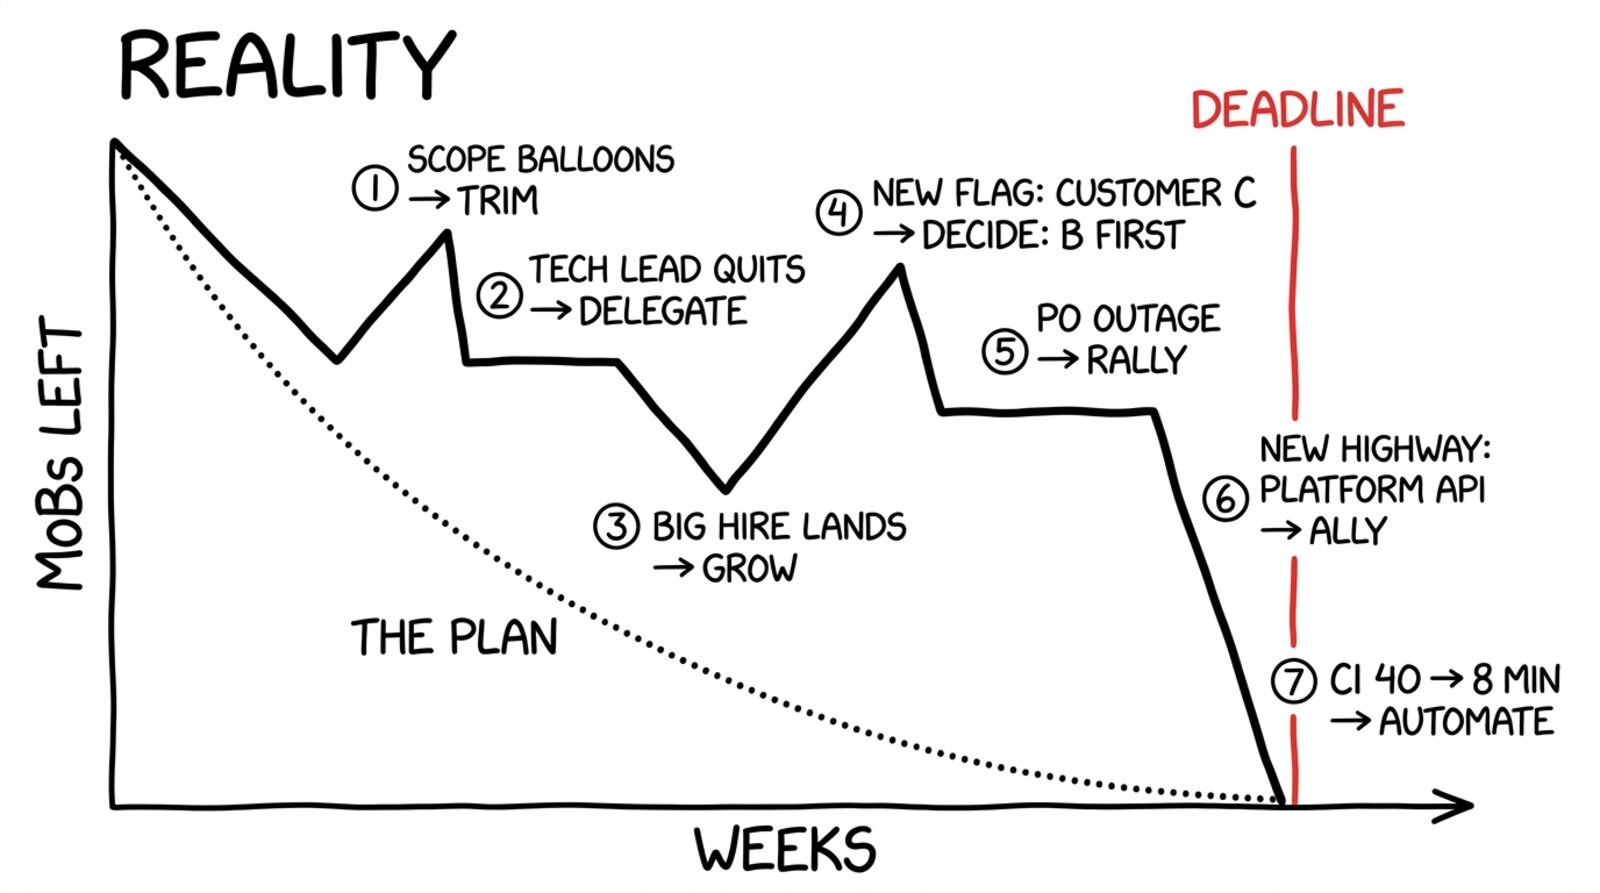
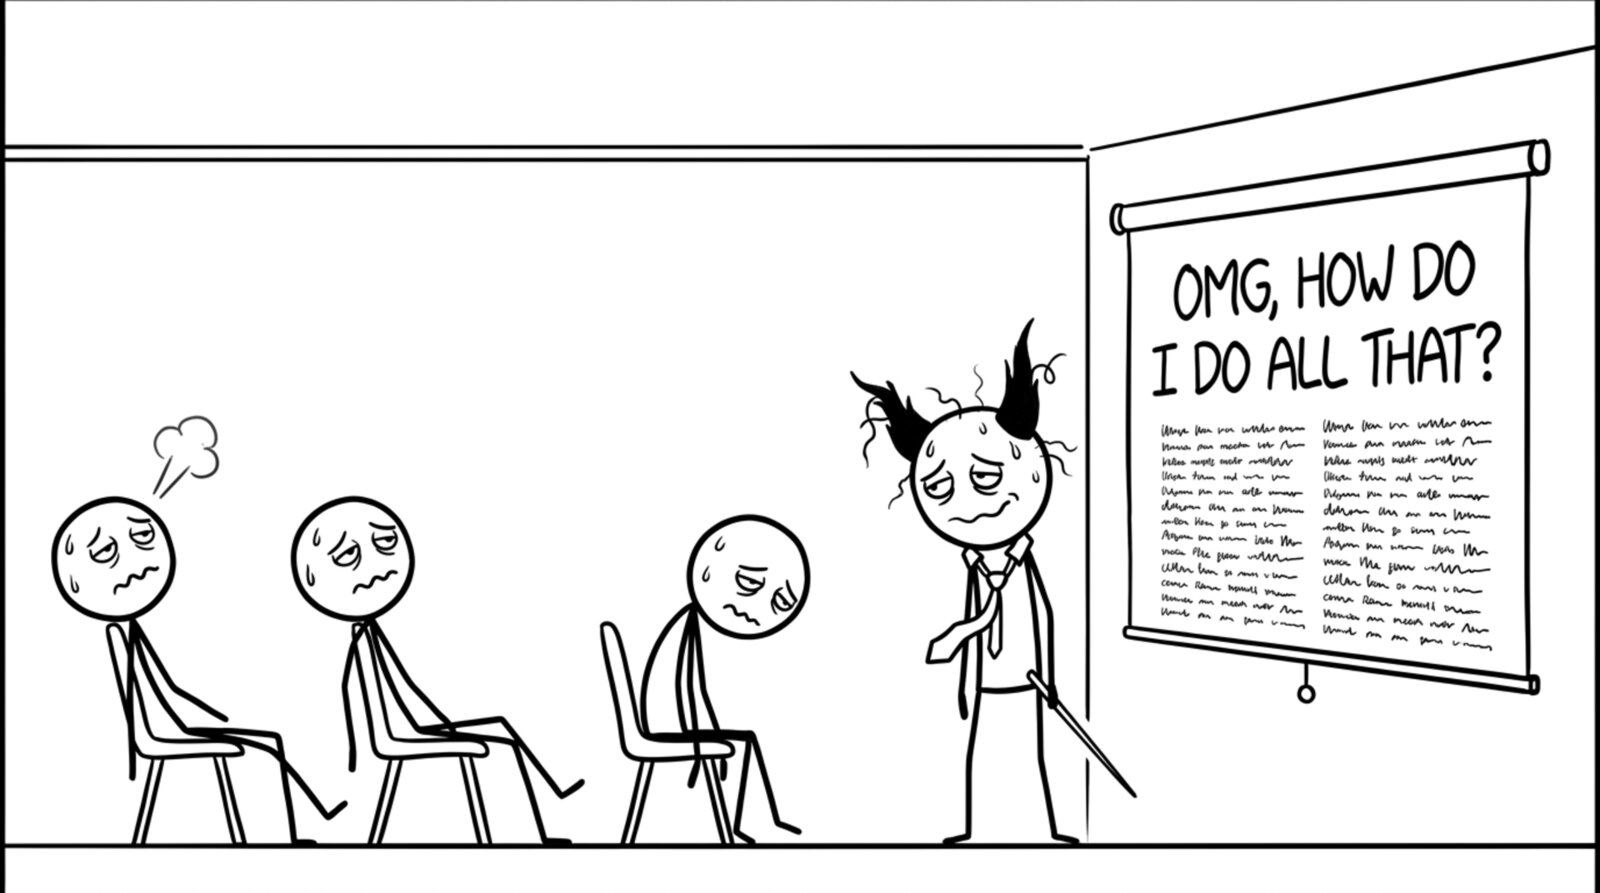
Winning vs capacity talk: OMG transition slide; Reality chart plotted from real numbers

diff --git a/recipes/management/winning_vs_capacity/source/slides/reality.html b/recipes/management/winning_vs_capacity/source/slides/reality.html
@@ -1,5 +1,5 @@
 <section id="reality" data-transition="fade" style="display:flex; align-items:center; justify-content:center; padding:0; background:#fcfcfa">
-<img src="../images/chart-chaos.png" alt="Reality. A full-page hand-drawn chart of remaining MoBs over weeks, with a red DEADLINE line near the right. A smooth dotted line, THE PLAN, glides down to zero before the deadline. The bold REALITY line starts at the same point but zigzags: seven numbered events, each with its fix. 1, scope balloons, fix: trim. 2, tech lead quits, fix: delegate. 3, big hire lands, fix: grow. 4, new flag, customer C, fix: decide, B first. 5, P0 outage, fix: rally. 6, new highway, platform API, fix: ally. 7, CI from 40 to 8 minutes, fix: automate. The bold line finally plunges to zero just before the deadline." style="width:1920px; height:1080px; object-fit:contain; mix-blend-mode:multiply">
+<img src="../images/chart-real.png" alt="Reality. A full-page hand-drawn chart over 200 days with two axes and a red DEADLINE line at day 180. Left axis, MoBs: a blue TOTAL SCOPE staircase starts at 9,000, jumps to 13,000 on day 30 and is trimmed to 11,000, jumps to 15,000 on day 90 and is cut to 12,500. A bold black REMAINING burn-down jumps with each scope change and slopes down, slowly at first, then steeply, reaching zero on day 175. Right axis, MoB per day: a green CAPACITY staircase. Seven numbered notes: 1, scope balloons +4,000, trim -2,000. 2, tech lead quits, 30 to 20 per day, delegate, 35 per day. 3, big hire lands, 50 per day, grow. 4, new flag customer C +4,000, decide B first, -2,500. 5, P0 outage, 6 days at 5 per day, rally. 6, platform API, 120 per day, ally. 7, CI from 40 to 8 minutes, 220 per day, automate." style="width:1920px; height:1080px; object-fit:contain; mix-blend-mode:multiply">
 <p style="position:absolute;left:0;bottom:10px;width:1920px;margin:0;text-align:center;font-family:'Patrick Hand', 'Trebuchet MS', sans-serif;font-size:22px;color:#8a8f98">Copyright Dobromir Montauk 2026</p>
-<aside><b>Reality.</b> That earlier chart was a lie. It assumed the world holds still: same pile, same team, same flag. It never does. The plan is the first thing that breaks, usually in week two.<br>- Scope grows: the customer's "small change" turns out to need a migration.<br>- Capacity drops: the tech lead resigns, two people are out on parental leave, half the team gets pulled into an outage.<br>- The goal moves: a second big customer signs and wants their launch first.<br>- And sometimes you get lucky: the senior hire you chased for months accepts, or the platform team ships the API that deletes a quarter of your work.<br>Every one of these is a bucket you already know. The job isn't making the plan. It's noticing the change this week, picking the right bucket, and re-planning, every week, until you're done.</aside>
+<aside><b>Reality.</b> That earlier chart was a lie. It assumed the world holds still: same pile, same team, same flag. It never does. The plan is the first thing that breaks, usually in week two. Notice that capacity went from 30 a day to 220 a day; that, not heroics, is why the burn-down makes it.<br>- Scope grows: the customer's "small change" turns out to need a migration.<br>- Capacity drops: the tech lead resigns, two people are out on parental leave, half the team gets pulled into an outage.<br>- The goal moves: a second big customer signs and wants their launch first.<br>- And sometimes you get lucky: the senior hire you chased for months accepts, or the platform team ships the API that deletes a quarter of your work.<br>Every one of these is a bucket you already know. The job isn't making the plan. It's noticing the change this week, picking the right bucket, and re-planning, every week, until you're done.</aside>
 </section>

diff --git a/recipes/management/winning_vs_capacity/source/slides/omg.html b/recipes/management/winning_vs_capacity/source/slides/omg.html
@@ -1,0 +1,5 @@
+<section id="omg" data-transition="fade" style="display:flex; align-items:center; justify-content:center; padding:0; background:#fcfcfa">
+<img src="../images/omg-final.png" alt="Back in the seminar room from slide 3, at the end of a long day. The screen reads OMG, HOW DO I DO ALL THAT? above a long scribbled list. The three audience members are slumped in their chairs, exhausted and sweating. The Manager is exhausted too: hair disheveled, tie loosened and askew, pointer drooping." style="width:1920px; height:1080px; object-fit:contain; mix-blend-mode:multiply">
+<p style="position:absolute;left:0;bottom:10px;width:1920px;margin:0;text-align:center;font-family:'Patrick Hand', 'Trebuchet MS', sans-serif;font-size:22px;color:#8a8f98">Copyright Dobromir Montauk 2026</p>
+<aside><b>OMG, how do I do all that?</b> Twenty buckets. Nobody does all twenty every week, and nobody should try. I don't. In any given week, two or three of them matter, and the rest can wait. The hard part isn't knowing the buckets; it's knowing which two or three this week, because the world keeps changing under you.</aside>
+</section>

diff --git a/recipes/management/winning_vs_capacity/source/tools/chaos_chart.py b/recipes/management/winning_vs_capacity/source/tools/chaos_chart.py
@@ -1,0 +1,59 @@
+import sys
+import matplotlib
+matplotlib.use('Agg')
+from matplotlib import font_manager as fm
+import matplotlib.pyplot as plt
+FONT=sys.argv[1]; OUT=sys.argv[2]
+fm.fontManager.addfont(FONT); FN=fm.FontProperties(fname=FONT).get_name()
+
+DEADLINE=180
+# total scope (MoB): day -> new total
+scope_events={30:13000,40:11000,90:15000,100:12500}
+# capacity (MoB/day): day -> new rate
+cap_events={0:30,55:20,68:35,75:50,115:5,121:50,130:120,150:220}
+days=list(range(0,201)); total=[];rem=[];cap=[]
+t=9000;c=30;done=0;finish=None
+for d in days:
+    t=scope_events.get(d,t); c=cap_events.get(d,c)
+    r=max(t-done,0)
+    if r==0 and finish is None: finish=d
+    total.append(t); rem.append(r); cap.append(c if r>0 else float('nan'))
+    done+=c if r>0 else 0
+print('finish day',finish)
+
+plt.xkcd(scale=0.6,length=120,randomness=2)
+plt.rcParams.update({'font.family':[FN,'DejaVu Sans'],'font.size':26,'path.effects':[]})
+fig,ax=plt.subplots(figsize=(19.2,10.8),dpi=100)
+fig.subplots_adjust(left=0.08,right=0.91,top=0.86,bottom=0.1)
+BLUE='#1f5fbf';GREEN='#1e8a3c';RED='#d62828'
+ax.plot(days,total,color=BLUE,lw=3,drawstyle='steps-post')
+ax.plot(days,rem,color='black',lw=5)
+ax.set_xlim(0,205);ax.set_ylim(0,16500)
+ax.set_xlabel('DAYS',fontsize=32);ax.set_ylabel('MoBs',fontsize=32)
+ax.set_yticks([0,4000,8000,12000,16000]);ax.set_yticklabels(['0','4,000','8,000','12,000','16,000'])
+ax.set_xticks([0,30,60,90,120,150,180])
+ax.spines['top'].set_visible(False)
+ax2=ax.twinx()
+ax2.plot(days,cap,color=GREEN,lw=3.5,drawstyle='steps-post')
+ax2.set_ylim(0,400);ax2.set_yticks([0,50,100,150,200])
+ax2.set_ylabel('MoB / DAY',color=GREEN,fontsize=32)
+ax2.yaxis.set_label_coords(1.06,0.25)
+ax2.tick_params(axis='y',colors=GREEN);ax2.spines['right'].set_color(GREEN);ax2.spines['top'].set_visible(False)
+ax.axvline(DEADLINE,color=RED,lw=4)
+ax.text(DEADLINE,16700,'DEADLINE',color=RED,ha='center',fontsize=30)
+fig.text(0.08,0.92,'REALITY',fontsize=64)
+# line labels
+ax.text(184,13300,'TOTAL\nSCOPE',color=BLUE,fontsize=26,va='bottom')
+ax.text(48,9900,'REMAINING',color='black',fontsize=28)
+ax2.text(4,40,'CAPACITY',color=GREEN,fontsize=26)
+def note(axx,n,x,y,tx,ty,l1,l2):
+    axx.annotate('(%d) %s\n      → %s'%(n,l1,l2),xy=(x,y),xytext=(tx,ty),fontsize=23,va='center',
+                 arrowprops=dict(arrowstyle='-',color='#555555',lw=1.5,shrinkA=4,shrinkB=2))
+note(ax,1,30,13000,4,15300,'SCOPE BALLOONS +4,000','TRIM: -2,000')
+note(ax,4,90,15000,98,15500,'NEW FLAG: CUSTOMER C +4,000','DECIDE: B FIRST, -2,500')
+note(ax2,2,55,20,14,160,'TECH LEAD QUITS: 30 → 20/DAY','DELEGATE: 35/DAY')
+note(ax2,3,75,50,58,105,'BIG HIRE LANDS: 50/DAY','GROW')
+note(ax2,5,118,5,82,160,'P0 OUTAGE: 6 DAYS AT 5/DAY','RALLY')
+note(ax2,6,130,120,103,285,'PLATFORM API: 120/DAY','ALLY')
+note(ax2,7,150,220,131,245,'CI 40 → 8 MIN: 220/DAY','AUTOMATE')
+fig.savefig(OUT,facecolor='white')

diff --git a/recipes/management/winning_vs_capacity/outline.md b/recipes/management/winning_vs_capacity/outline.md
@@ -381,21 +381,26 @@ Running analogy: move a ton of bricks from Point A to Point B. Build the team, a
 
 ## Close
 
-35. **Reality** · Chart (full page)
-    - Chart: remaining MoBs over weeks, red DEADLINE line. Dotted THE PLAN glides smoothly to zero. Bold REALITY zigzags through seven numbered events, each with its fix: (1) scope balloons → Trim; (2) tech lead quits → Delegate; (3) big hire lands → Grow; (4) new flag, customer C → Decide: B first; (5) P0 outage → Rally; (6) new highway, platform API → Ally; (7) CI 40 → 8 min → Automate. It plunges to zero just before the deadline.
+35. **OMG, how do I do all that?** · Comic (callback to slide 3)
+    - Comic: The same seminar room as slide 3, at the end of a long day. The screen reads OMG, HOW DO I DO ALL THAT? above a long scribbled list. The three audience members are slumped in their chairs, exhausted and sweating. The Manager is exhausted too: hair disheveled, tie loosened and askew, pointer drooping.
+    - Text: "OMG, HOW DO I DO ALL THAT?"
+    - Notes (talk track): Twenty buckets. Nobody does all twenty every week, and nobody should try. I don't. In any given week, two or three of them matter, and the rest can wait. The hard part isn't knowing the buckets; it's knowing which two or three this week, because the world keeps changing under you.
+
+36. **Reality** · Chart (full page, plotted from real numbers)
+    - Chart: 200 days, two axes, red DEADLINE at day 180. Left axis (MoBs): blue TOTAL SCOPE staircase, 9,000 → 13,000 on day 30 (1, scope balloons) → trimmed to 11,000 → 15,000 on day 90 (4, new flag: customer C) → cut to 12,500 (decide: B first). Bold black REMAINING burn-down jumps with each scope change and reaches zero on day 175. Right axis (MoB/day): green CAPACITY staircase: 30 → 20 on day 55 (2, tech lead quits) → 35 (delegate) → 50 on day 75 (3, big hire lands, grow) → 5 for 6 days at day 115 (5, P0 outage, rally) → 50 → 120 on day 130 (6, platform API, ally) → 220 on day 150 (7, CI 40 → 8 min, automate). Plotted with tools/chaos_chart.py (matplotlib xkcd mode, Patrick Hand font).
     - Text: "REALITY"
-    - Notes (talk track): That earlier chart was a lie. It assumed the world holds still: same pile, same team, same flag. It never does. The plan is the first thing that breaks, usually in week two.
+    - Notes (talk track): That earlier chart was a lie. It assumed the world holds still: same pile, same team, same flag. It never does. The plan is the first thing that breaks, usually in week two. Notice that capacity went from 30 a day to 220 a day; that, not heroics, is why the burn-down makes it.
       - Scope grows: the customer's "small change" turns out to need a migration.
       - Capacity drops: the tech lead resigns, two people are out on parental leave, half the team gets pulled into an outage.
       - The goal moves: a second big customer signs and wants their launch first.
       - And sometimes you get lucky: the senior hire you chased for months accepts, or the platform team ships the API that deletes a quarter of your work.
       - Every one of these is a bucket you already know. The job isn't making the plan. It's noticing the change this week, picking the right bucket, and re-planning, every week, until you're done.
 
-36. **Zoom out** · Comic → Map
+37. **Zoom out** · Comic → Map
     - Comic: Manager staring at one cracked brick. Pull back: the whole map.
     - Text: "Don't lose the forest for the bricks."
 
-37. **Turn 1 vs Turn 52** · Map 16 (final)
+38. **Turn 1 vs Turn 52** · Map 16 (final)
     - Map: split view. Left: Turn 1's dotted footpath with a tally of 37. Right: Turn 52's road network, bridges, convoys and several flags reached, with fog still at the edges.
     - Text: "Win this turn. Win bigger every turn."
 

diff --git a/recipes/management/winning_vs_capacity/README.md b/recipes/management/winning_vs_capacity/README.md
@@ -260,9 +260,13 @@ Copyright Dobromir Montauk 2026.
 > - Start small and earn more: a two-day draft, reviewed together, then sharpen the numbers.
 > Every yes from the CEO is spent from trust you built earlier.
 
-![Slide 35: Reality. A full-page hand-drawn chart of remaining MoBs over weeks, with a red DEADLINE line near the right. A smooth dotted line, THE PLAN, glides down to zero before the deadline. The bold REALITY line starts at the same point but zigzags: seven numbered events, each with its fix. 1, scope balloons, fix: trim. 2, tech lead quits, fix: delegate. 3, big hire lands, fix: grow. 4, new flag, customer C, fix: decide, B first. 5, P0 outage, fix: rally. 6, new highway, platform API, fix: ally. 7, CI from 40 to 8 minutes, fix: automate. The bold line finally plunges to zero just before the deadline.](slides/35.jpg)
+![Slide 35: Back in the seminar room from slide 3, at the end of a long day. The screen reads OMG, HOW DO I DO ALL THAT? above a long scribbled list. The three audience members are slumped in their chairs, exhausted and sweating. The Manager is exhausted too: hair disheveled, tie loosened and askew, pointer drooping.](slides/35.jpg)
 
-> That earlier chart was a lie. It assumed the world holds still: same pile, same team, same flag. It never does. The plan is the first thing that breaks, usually in week two.
+> Twenty buckets. Nobody does all twenty every week, and nobody should try. I don't. In any given week, two or three of them matter, and the rest can wait. The hard part isn't knowing the buckets; it's knowing which two or three this week, because the world keeps changing under you.
+
+![Slide 36: Reality. A full-page hand-drawn chart over 200 days with two axes and a red DEADLINE line at day 180. Left axis, MoBs: a blue TOTAL SCOPE staircase starts at 9,000, jumps to 13,000 on day 30 and is trimmed to 11,000, jumps to 15,000 on day 90 and is cut to 12,500. A bold black REMAINING burn-down jumps with each scope change and slopes down, slowly at first, then steeply, reaching zero on day 175. Right axis, MoB per day: a green CAPACITY staircase. Seven numbered notes: 1, scope balloons +4,000, trim -2,000. 2, tech lead quits, 30 to 20 per day, delegate, 35 per day. 3, big hire lands, 50 per day, grow. 4, new flag customer C +4,000, decide B first, -2,500. 5, P0 outage, 6 days at 5 per day, rally. 6, platform API, 120 per day, ally. 7, CI from 40 to 8 minutes, 220 per day, automate.](slides/36.jpg)
+
+> That earlier chart was a lie. It assumed the world holds still: same pile, same team, same flag. It never does. The plan is the first thing that breaks, usually in week two. Notice that capacity went from 30 a day to 220 a day; that, not heroics, is why the burn-down makes it.
 > - Scope grows: the customer's "small change" turns out to need a migration.
 > - Capacity drops: the tech lead resigns, two people are out on parental leave, half the team gets pulled into an outage.
 > - The goal moves: a second big customer signs and wants their launch first.
